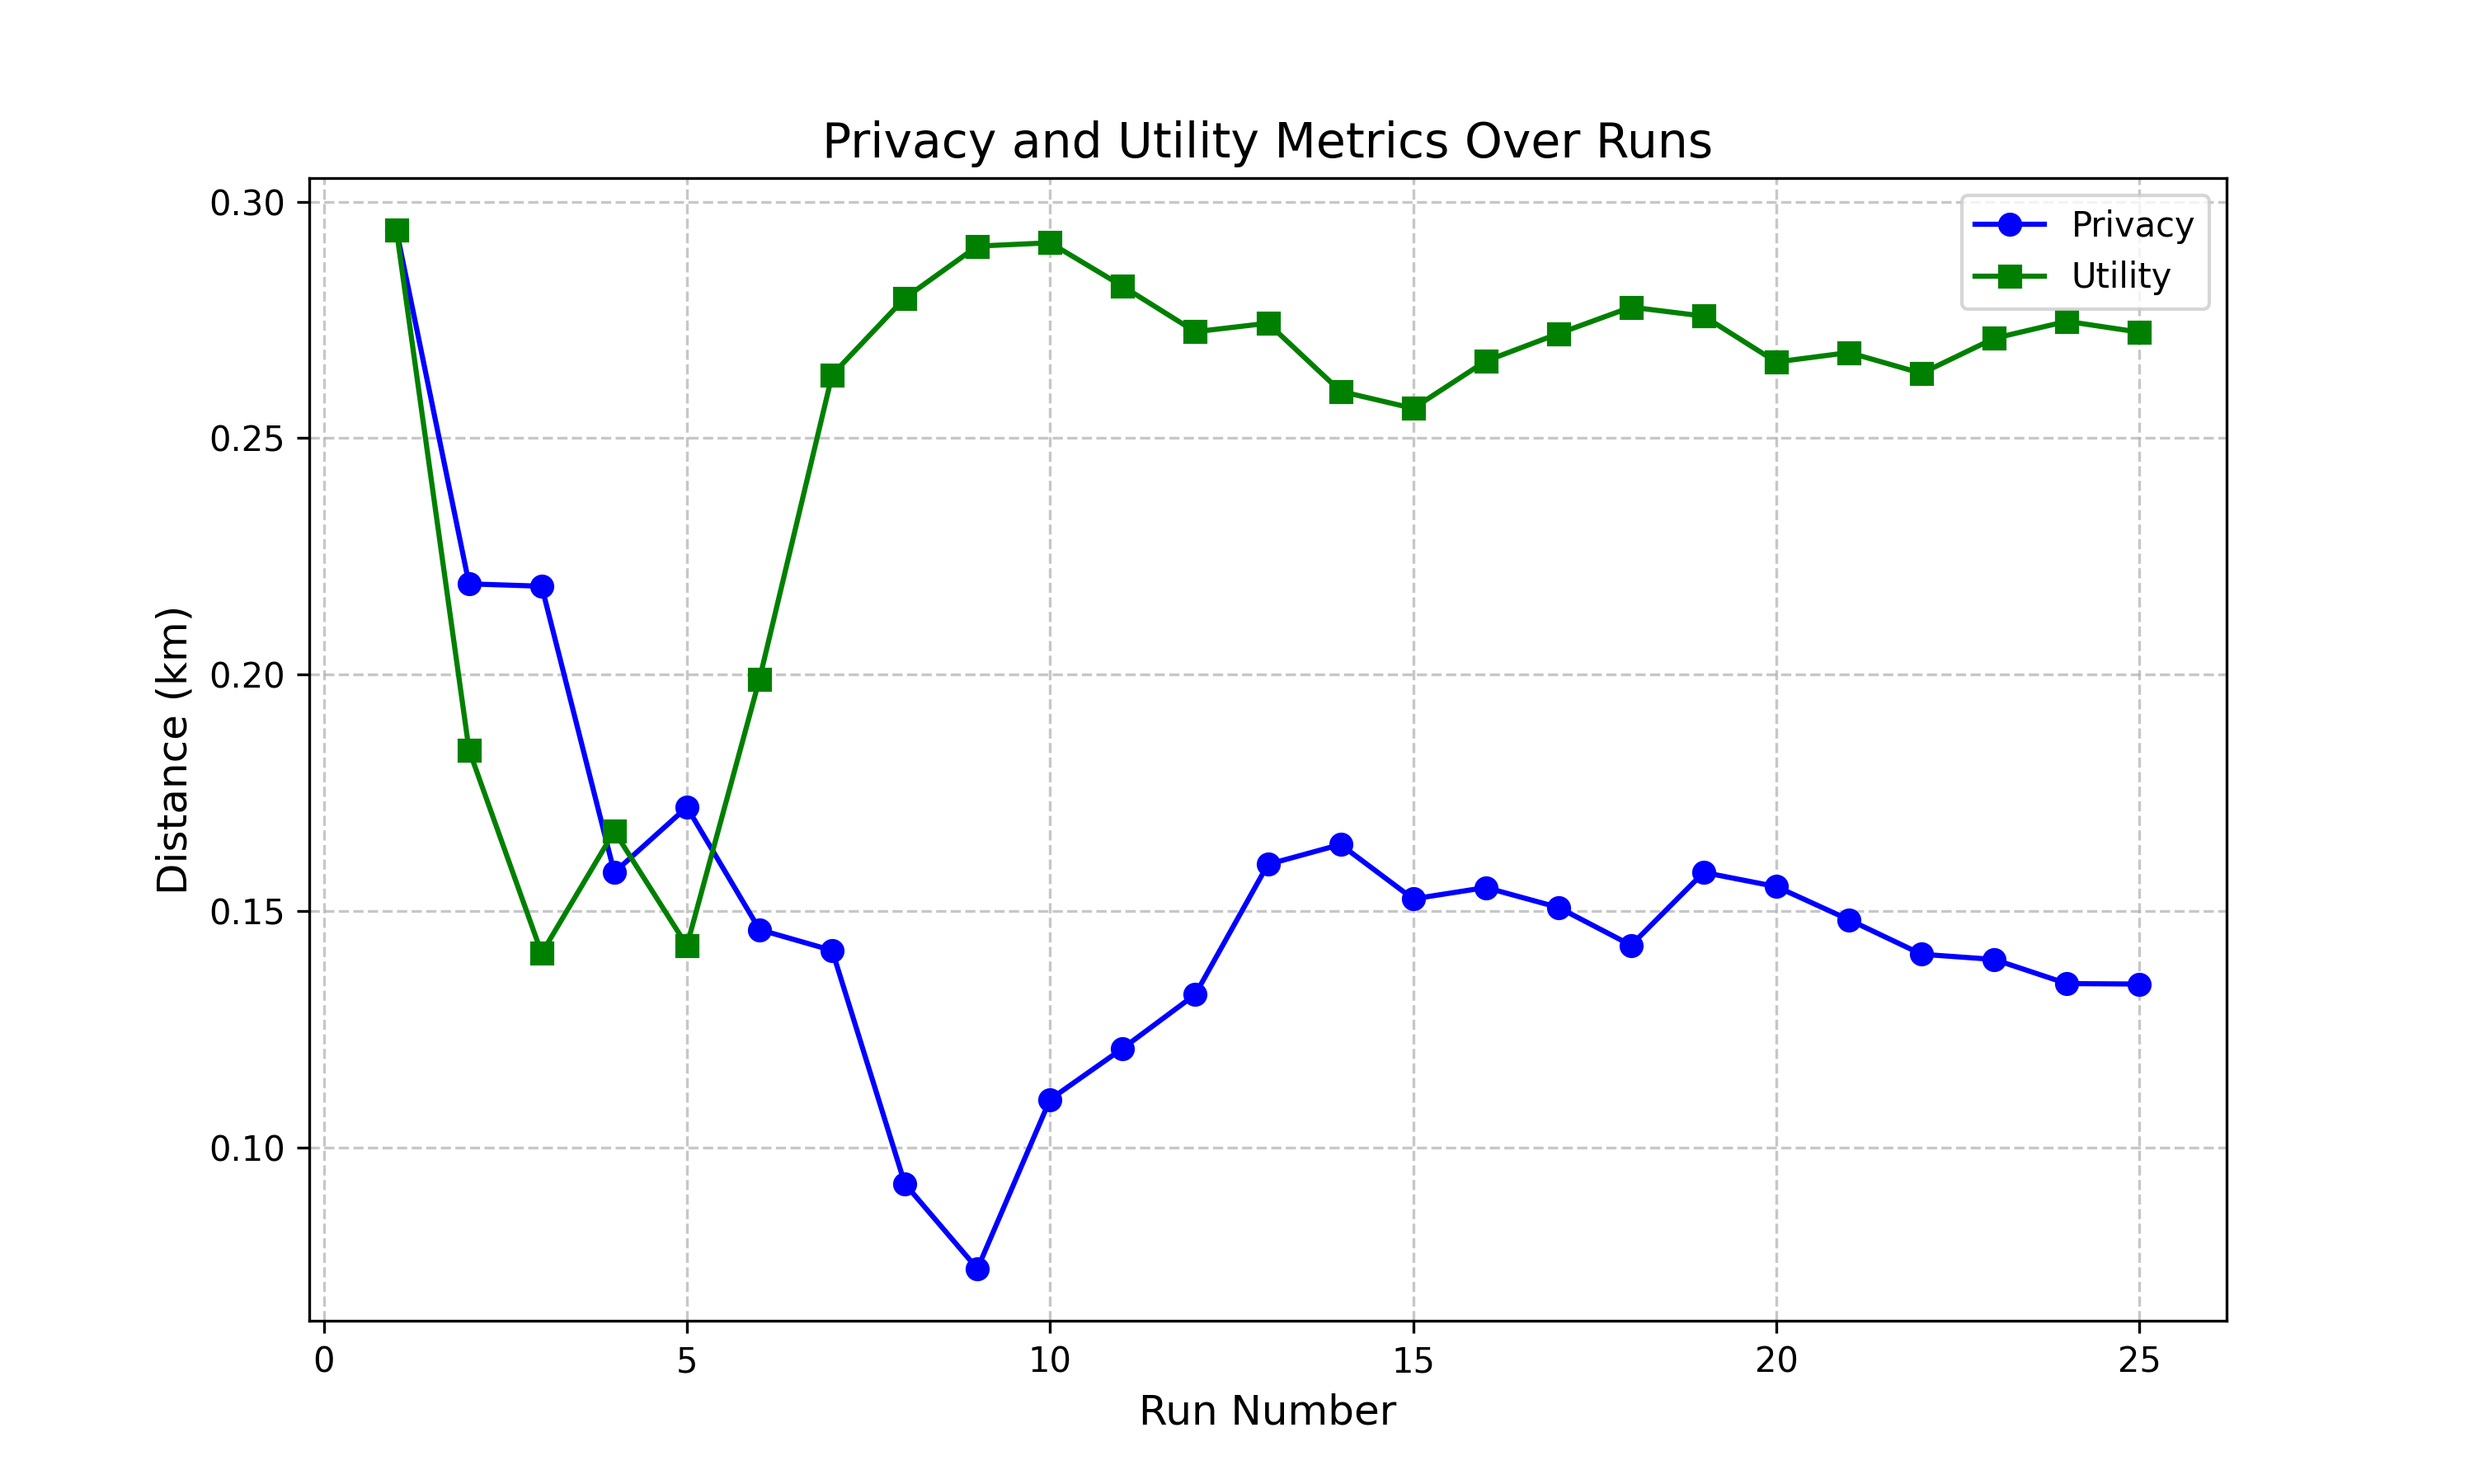
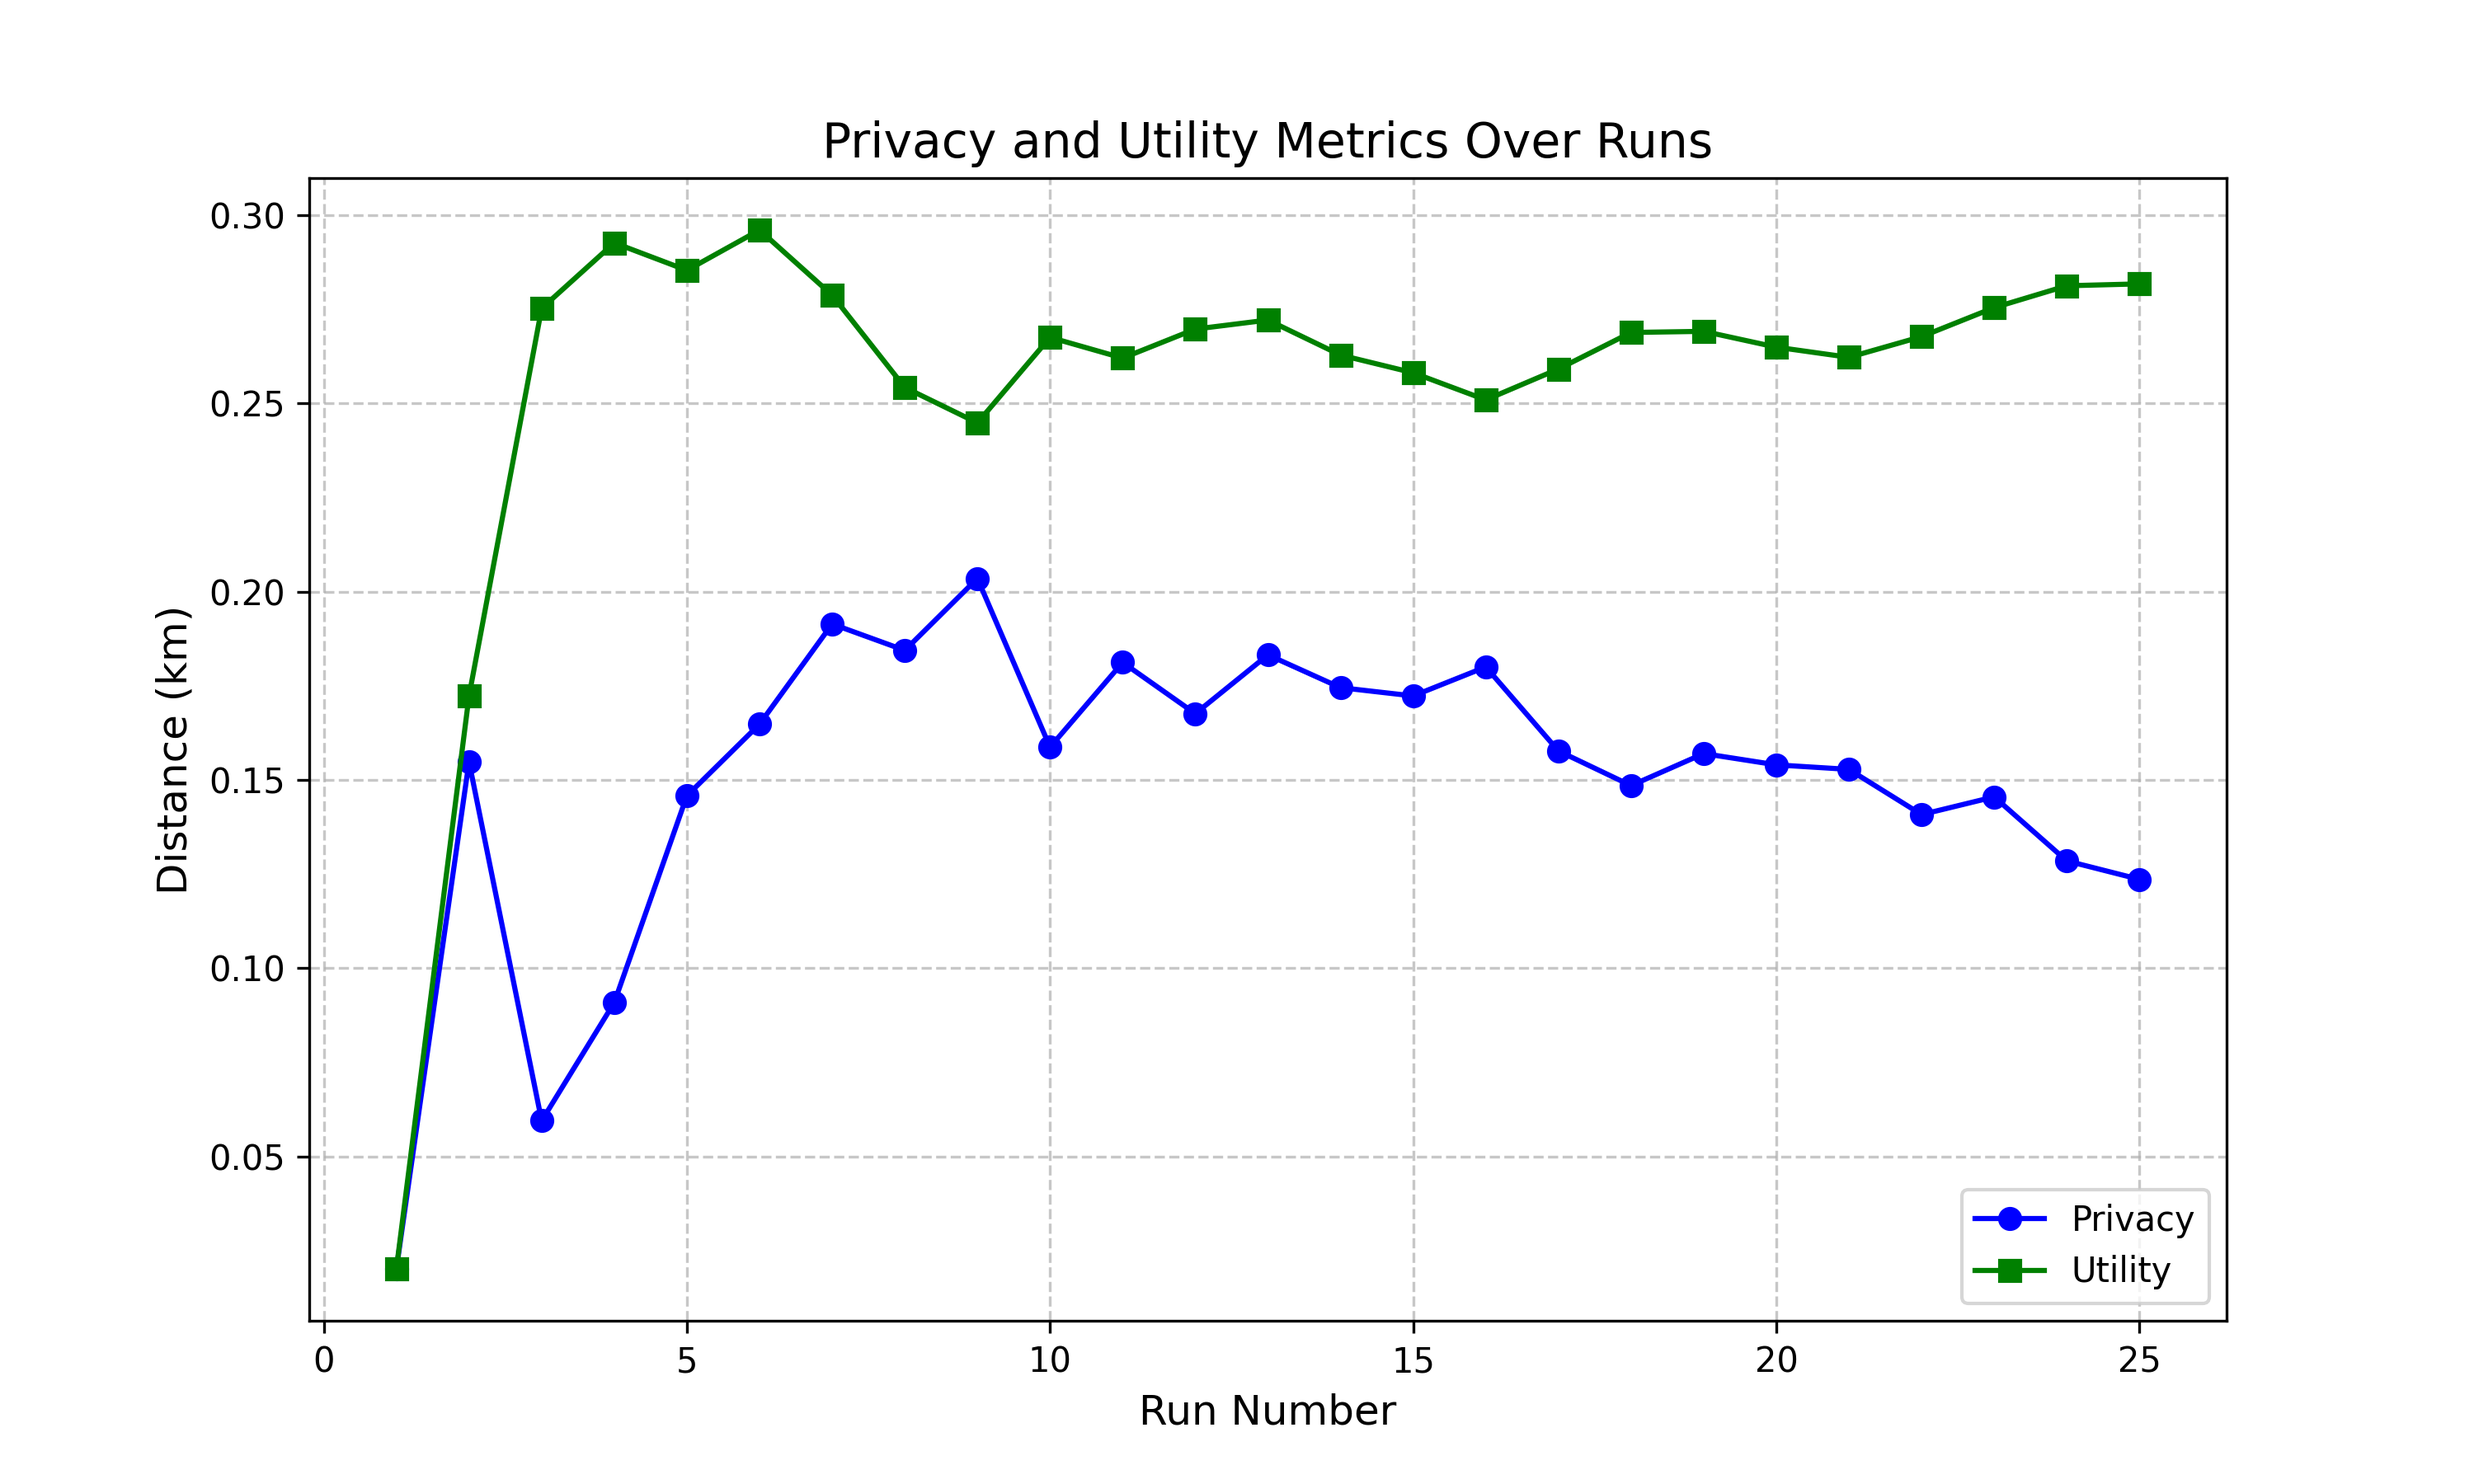
Walkable incremental plotting

diff --git a/map_random_walkable_overpass.py b/map_random_walkable_overpass.py
@@ -5,6 +5,9 @@ import webbrowser
 import os
 import requests
 from tqdm import tqdm
+import numpy as np
+import matplotlib.pyplot as plt
+from collections import defaultdict
 
 # === CONFIG ===
 OVERPASS_URL = "http://overpass-api.de/api/interpreter"
@@ -77,6 +80,22 @@ def save_to_file(points, filename="walkable_overpass.txt"):
         for name, lat, lon, tags, status in points:
             f.write(f"{name}: ({lat}, {lon})\n")
 
+def CalculateDistance(lat1, lon1, lat2, lon2):
+    R = 6371.0
+    lat1_rad = np.radians(lat1)
+    lon1_rad = np.radians(lon1)
+    lat2_rad = np.radians(lat2)
+    lon2_rad = np.radians(lon2)
+
+    dlon = lon2_rad - lon1_rad
+    dlat = lat2_rad - lat1_rad
+
+    a = np.sin(dlat / 2) ** 2 + np.cos(lat1_rad) * np.cos(lat2_rad) * np.sin(dlon / 2) ** 2
+    c = 2 * np.arctan2(np.sqrt(a), np.sqrt(1 - a))
+
+    distance = R * c
+    return distance 
+
 def main():
     ch = input("Type 'Address' or 'Coordinates': ").strip().lower()
     if ch == 'address':
@@ -109,20 +128,73 @@ def main():
         print("Invalid number of points")
         return
 
-    center_lat, center_lon = coords
+    #center_lat, center_lon = coords
 
     print("Finding walkable areas using Overpass API...")
-    walkable_areas = FindWalkableAreas(center_lat, center_lon, radius)
+    total_walkable_areas = FindWalkableAreas(coords[0], coords[1], radius)
 
-    if not walkable_areas:
+    if not total_walkable_areas:
         print("No walkable areas found.")
         return
+    
+    walkable_areas = []
+    utility_values = []
+    privacy_values = []
 
-    walkable_areas = walkable_areas[:num_runs]
-    print(f"Found {len(walkable_areas)} walkable areas.")
+    if len(total_walkable_areas) < num_runs:
+        num_runs = len(total_walkable_areas)
+
+    for x in range(num_runs):
+        chosen = total_walkable_areas[x]
+        walkable_areas.append(chosen)
+
+        utility = 0.0
+        privacy = 0.0
+
+        lat_sum = sum(p[1] for p in walkable_areas)
+        lon_sum = sum(p[2] for p in walkable_areas)
+        centroid_lat = lat_sum / len(walkable_areas)
+        centroid_lon = lon_sum / len(walkable_areas)
+        privacy = CalculateDistance(coords[0], coords[1], centroid_lat, centroid_lon)
+
+        total = 0
+        for _, lat, lon, *_ in walkable_areas:
+            total += CalculateDistance(coords[0], coords[1], lat, lon)
+        utility = total / x
+
+        utility_values.append(utility)
+        privacy_values.append(privacy)
+
+        print(f"Iteration {x + 1}")
+        print(f"Privacy = {privacy}")
+        print(f"Utility = {utility}")
+        print("")
+
+    #walkable_areas = walkable_areas[:num_runs]
+    #print(f"Found {len(walkable_areas)} walkable areas.")
 
     save_to_file(walkable_areas)
-    create_map(center_lat, center_lon, radius, walkable_areas)
+    create_map(coords[0], coords[1], radius, walkable_areas)
+
+    plt.figure(figsize=(12, 5))
+
+    plt.subplot(1, 2, 1)
+    plt.plot(range(1, num_runs + 1), utility_values, marker='o', color='green')
+    plt.title('Utility vs Iteration')
+    plt.xlabel('Iteration')
+    plt.ylabel('Utility (Avg Distance to Chosen POIs)')
+
+    plt.subplot(1, 2, 2)
+    plt.plot(range(1, num_runs + 1), privacy_values, marker='o', color='red')
+    plt.title('Privacy vs Iteration')
+    plt.xlabel('Iteration')
+    plt.ylabel('Privacy (Distance to Centroid of POIs)')
+
+    plt.tight_layout()
+    plt.savefig("Walkable_Utility_Privacy_Graph")
+    plt.show()
+
+    
 
 if __name__ == "__main__":
     main()
